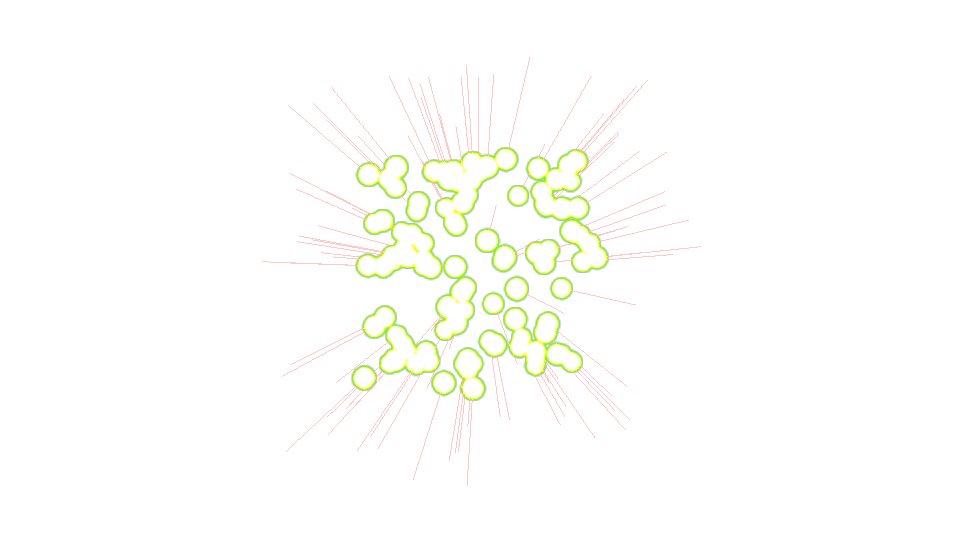
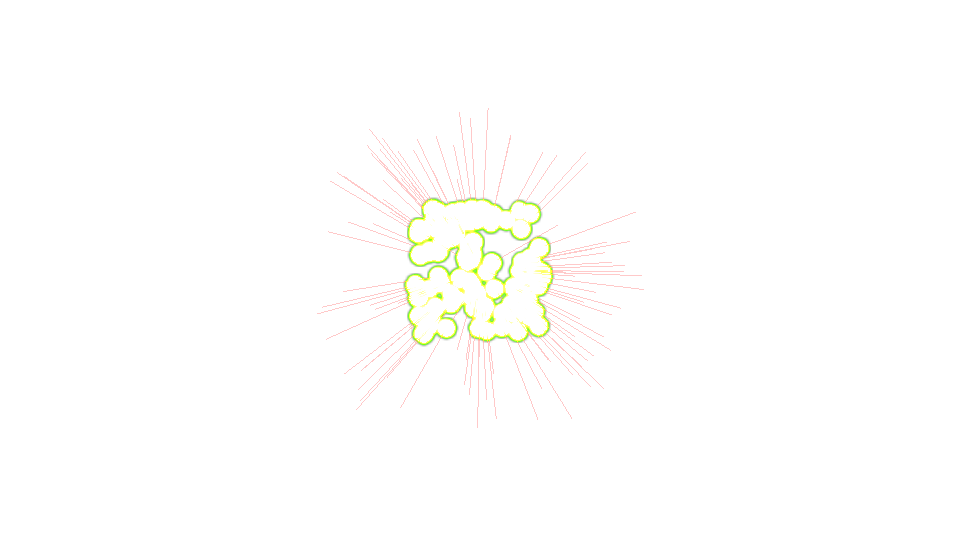
change:Drawをポストエフェクト前に、その後UpdateでUI描画を行う

Changed region(s): [[0.3125, 0.1778, 0.6562, 0.8296], [0.625, 0.2074, 0.6562, 0.237]]

diff --git a/basic_tool/scripts/component/renderer/line.cpp b/basic_tool/scripts/component/renderer/line.cpp
@@ -89,6 +89,10 @@ void Line::Start()
 
 void Line::Update()
 {
+}
+
+void Line::Draw()
+{
     // 更新
     {
         updateConstantBufferA();
@@ -102,7 +106,7 @@ void Line::Update()
         m_pContext->GetDeviceContext()->VSSetShader(m_pVertexShader.Get(), nullptr, 0);
         m_pContext->GetDeviceContext()->IASetInputLayout(m_pInputLayout.Get());
         m_pContext->GetDeviceContext()->PSSetShader(m_pPixelShader.Get(), nullptr, 0);
-        m_pContext->GetDeviceContext()->IASetVertexBuffers(0, 1, m_pVertexBuffer.GetAddressOf(), &STRIDE, &OFFSET); 
+        m_pContext->GetDeviceContext()->IASetVertexBuffers(0, 1, m_pVertexBuffer.GetAddressOf(), &STRIDE, &OFFSET);
         // SetIndexBufferはいらない
         m_pContext->GetDeviceContext()->VSSetConstantBuffers(0, 1, m_pConstantBufferA.GetAddressOf());
         m_pContext->GetDeviceContext()->OMSetBlendState(m_pBlendState.Get(), blendFactor, 0xffffffff);

diff --git a/basic_tool/scripts/application/application.cpp b/basic_tool/scripts/application/application.cpp
@@ -60,13 +60,16 @@ bool Application::gameLoop()
     GameTime::Update();
     GameInput::Update();
 
-    m_pContext->ClearRTV();
-    m_pContext->SetRTV();
+    m_pContext->ClearRtv();
 
+    m_pContext->SetRtvHDR();
     m_pContext->Update();
-    m_pSceneManager->Update();
-
+    m_pSceneManager->Draw();
     m_pContext->PostEffect();
+    
+    m_pContext->SetRtv();
+    m_pSceneManager->Update();
+	m_pContext->CheckSave();
     m_pContext->Swap();
 
     Sleep(10);

diff --git a/basic_tool/scripts/application/scene/test_scene.cpp b/basic_tool/scripts/application/scene/test_scene.cpp
@@ -54,6 +54,8 @@ void TestScene::Update()
 		pGameObject->Update();
 	}
 
+	m_pGui->Update();
+
 	if (GameInput::GetKeyDown('S') && GameInput::GetKey(VK_CONTROL)) 
 	{
 		serialize();
@@ -64,9 +66,15 @@ void TestScene::Update()
 		deserialize();
 	}
 
-	m_pGui->Update();
-
 	destroy();
+}
+
+void TestScene::Draw()
+{
+	for (auto& pGameObject : m_pGameObjects)
+	{
+		pGameObject->Draw();
+	}
 }
 
 void TestScene::Terminate()

diff --git a/basic_tool/scripts/application/game_object.cpp b/basic_tool/scripts/application/game_object.cpp
@@ -59,6 +59,17 @@ void GameObject::Update()
 	}
 }
 
+void GameObject::Draw()
+{
+	for (auto& pComponent : m_pComponents)
+	{
+		if (pComponent->GetEnabled())
+		{
+			pComponent->Draw();
+		}
+	}
+}
+
 void GameObject::Finalize()
 {
 	for (auto& pComponent : m_pComponents)

diff --git a/basic_tool/scripts/component/renderer/line.h b/basic_tool/scripts/component/renderer/line.h
@@ -14,6 +14,7 @@ public:
     void Initialize() override;
     void Start() override;
     void Update() override;
+    void Draw() override;
     void Finalize() override;
     void SetLine(const Vec3& start, const Vec3& end);
     void Show() override;

diff --git a/basic_tool/scripts/application/scene.h b/basic_tool/scripts/application/scene.h
@@ -14,6 +14,7 @@ public:
 	virtual void Initialize() = 0;
 	virtual void Start() = 0;
 	virtual void Update() = 0;
+	virtual void Draw() = 0;
 	virtual void Terminate() = 0;
 	virtual void Finalize() = 0;
 	GameObject& Instantiate(std::string name);

diff --git a/basic_tool/scripts/component/component.h b/basic_tool/scripts/component/component.h
@@ -12,6 +12,7 @@ public:
 	virtual void Initialize() = 0;
 	virtual void Start() = 0;
 	virtual void Update() = 0;
+	virtual void Draw() = 0;
 	virtual void Finalize() = 0;
 	virtual void Show() = 0;
 	virtual Json Serialize() const = 0;

diff --git a/basic_tool/scripts/component/renderer/sphere.h b/basic_tool/scripts/component/renderer/sphere.h
@@ -15,6 +15,7 @@ public:
     void Initialize() override;
     void Start() override;
     void Update() override;
+    void Draw() override;
     void Finalize() override;
     void Show() override;
     Json Serialize() const override;

diff --git a/basic_tool/scripts/component/renderer/sprite.h b/basic_tool/scripts/component/renderer/sprite.h
@@ -15,6 +15,7 @@ public:
     void Initialize() override;
     void Start() override;
     void Update() override;
+    void Draw() override;
     void Finalize() override;
     void Show() override;
     Json Serialize() const override;

diff --git a/basic_tool/scripts/component/renderer/square.h b/basic_tool/scripts/component/renderer/square.h
@@ -13,6 +13,7 @@ public:
     void Initialize() override;
     void Start() override;
     void Update() override;
+    void Draw() override;
     void Finalize() override;
     void Show() override;
     Json Serialize() const override;

diff --git a/basic_tool/scripts/component/renderer/triangle_test.h b/basic_tool/scripts/component/renderer/triangle_test.h
@@ -15,6 +15,7 @@ public:
     void Initialize() override;
     void Start() override;
     void Update() override;
+    void Draw() override;
     void Finalize() override;
     void Show() override;
     Json Serialize() const override;

diff --git a/basic_tool/scripts/component/rigidbody.h b/basic_tool/scripts/component/rigidbody.h
@@ -13,6 +13,7 @@ public:
     void Initialize() override;
     void Start() override;
     void Update() override;
+    void Draw() override;
     void Finalize() override;
     void Show() override;
     Json Serialize() const override;
